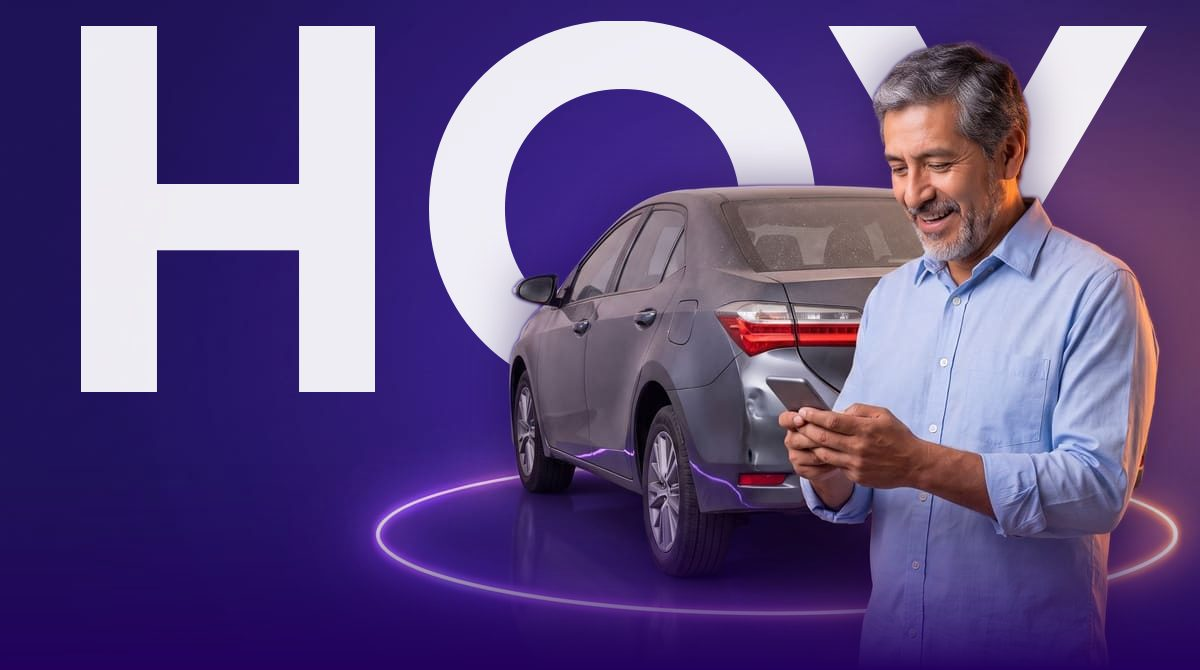
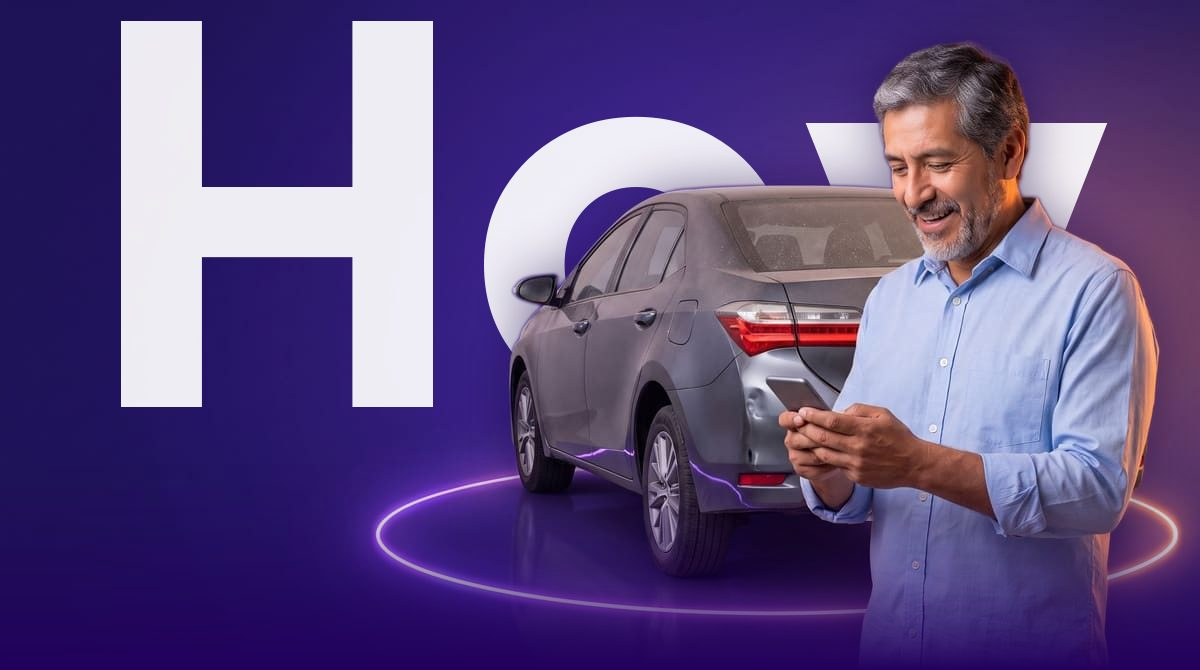
feat(correos): Valoriza — palabras en tipo oración y pantallas reales del celular
Palabra gigante del hero en tipo oración (¿Cuánto?, Revende…). Sugerencia de
Julio: el cuerpo muestra el flujo de valorización en el celular con capturas
reales (formulario, resultado, Mi Garaje, propuestas, responder) junto a la
lista; en el correo 4, tira de 3 celulares paso a paso.

Changed region(s): [[0.0617, 0.0299, 0.74, 0.6269], [0.8325, 0.0299, 0.9558, 0.3582], [0.6783, 0.0299, 0.7708, 0.1493]]

diff --git a/src/emails/boletines/campanaValoriza.ts b/src/emails/boletines/campanaValoriza.ts
@@ -93,16 +93,32 @@ const p = (html: string, o: { size?: number; color?: string; align?: string } = 
 const b = (t: string) => `<b style="color:${DS.v700};">${t}</b>`;
 const HOLA = p('Hola {{Nombre usuario.Ejem: Gabriel Bruno}},');
 
-/** Título de sección: antetítulo naranja + título violeta (jerarquía del Index). */
-const title = (kicker: string, text: string) => row(`<p style="margin:0;font-family:${F};font-size:12px;line-height:16px;font-weight:800;letter-spacing:0.1em;text-transform:uppercase;color:${DS.orange};">${kicker}</p><h2 style="margin:6px 0 0;font-family:${F};font-size:22px;line-height:28px;font-weight:800;letter-spacing:-0.02em;color:${DS.v700};">${text}</h2>`, '0 28px');
-
-/** Filas con ícono de vidrio (estilo «Empresas y vendedores»). `steps` antepone «Paso n». */
-function rows(items: [Icono, string, string][], steps = false): string {
-  const r = items.map(([ic, t, d], i) => `<tr><td class="ds-in" style="padding:16px 20px;${i ? `border-top:1px solid ${DS.divider};` : ''}animation-delay:${0.1 + i * 0.12}s;">${T()}<tr>
-<td width="60" valign="middle"><div class="ds-pop" style="display:inline-block;padding:8px;border-radius:16px;background-color:${DS.lav};animation-delay:${0.25 + i * 0.12}s;">${icon(ic)}</div></td>
-<td valign="middle" style="padding-left:16px;font-family:${F};">${steps ? `<div style="font-size:11px;line-height:14px;font-weight:800;letter-spacing:0.1em;text-transform:uppercase;color:${DS.orange};">Paso ${i + 1}</div>` : ''}<div style="margin-top:${steps ? 3 : 0}px;font-size:16px;line-height:22px;font-weight:800;letter-spacing:-0.01em;color:${DS.v700};">${t}</div><div style="margin-top:3px;font-size:14px;line-height:20px;color:${DS.muted};">${d}</div></td>
+/**
+ * Celular con una pantalla REAL de VMC (capturas del flujo, cel/*.png) junto a la lista:
+ * el producto se ve, no se describe. En móvil el celular queda arriba, centrado.
+ */
+function cel(img: string, alt: string, kicker: string, head: string, items: [Icono, string, string][]): string {
+  const li = items.map(([ic, t, d], i) => `<tr><td class="ds-in" style="padding:${i ? 14 : 0}px 0 0;animation-delay:${0.2 + i * 0.12}s;">${T()}<tr>
+<td width="44" valign="top"><div style="display:inline-block;padding:4px;border-radius:12px;background-color:${DS.lav};">${icon(ic, 32)}</div></td>
+<td valign="top" style="padding-left:12px;font-family:${F};"><div style="font-size:15px;line-height:20px;font-weight:800;color:${DS.v700};">${t}</div><div style="margin-top:2px;font-size:14px;line-height:20px;color:${DS.muted};">${d}</div></td>
 </tr></table></td></tr>`).join('');
-  return row(`${T(`bgcolor="#ffffff" style="border-radius:20px;border:1px solid ${DS.divider};box-shadow:${DS_SHADOW};"`)}${r}</table>`, '0 16px');
+  return row(`${T(`bgcolor="${DS.lav}" style="border-radius:24px;background-image:linear-gradient(135deg,#f5f0ff 0%,#ffffff 70%);border:1px solid ${DS.divider};"`)}<tr>
+<td class="ds-stack ds-cel" width="46%" align="center" valign="middle" style="padding:20px 0 12px 12px;"><img class="ds-zoom" src="${IMG}/cel/${img}" alt="${alt}" width="230" border="0" style="display:block;width:230px;max-width:100%;height:auto;margin:0 auto;"></td>
+<td class="ds-stack ds-cel-copy" width="54%" valign="middle" style="padding:24px 24px 24px 8px;font-family:${F};">
+<p style="margin:0;font-size:12px;line-height:16px;font-weight:800;letter-spacing:0.1em;text-transform:uppercase;color:${DS.orange};">${kicker}</p>
+<h2 style="margin:6px 0 18px;font-family:${F};font-size:22px;line-height:28px;font-weight:800;letter-spacing:-0.02em;color:${DS.v700};">${head}</h2>
+${T()}${li}</table>
+</td></tr></table>`, '0 16px');
+}
+
+/** Tira de 3 celulares: el recorrido completo en pantallas reales, paso a paso. */
+function cels(items: [string, string, string, string][]): string {
+  const c = items.map(([img, alt, t, d], i) => `<td class="ds-in" width="33%" align="center" valign="top" style="padding:0 4px;font-family:${F};animation-delay:${0.1 + i * 0.15}s;">
+<img src="${IMG}/cel/${img}" alt="${alt}" width="176" border="0" style="display:block;width:100%;max-width:176px;height:auto;margin:0 auto;">
+<div style="margin-top:6px;font-size:11px;line-height:14px;font-weight:800;letter-spacing:0.1em;text-transform:uppercase;color:${DS.orange};">Paso ${i + 1}</div>
+<div style="margin-top:3px;font-size:16px;line-height:21px;font-weight:800;color:${DS.v700};">${t}</div>
+<div style="margin-top:3px;font-size:13px;line-height:18px;color:${DS.muted};">${d}</div></td>`).join('');
+  return row(`${T()}<tr>${c}</tr></table>`, '0 12px');
 }
 
 /** Nota referencial: ícono de fecha + texto, en lavanda. */
@@ -147,6 +163,8 @@ const RESPONSIVE = `<style>
 table[width="600"],td[width="600"]{width:100%!important;box-sizing:border-box}
 .ds-hero-copy{padding:4px 22px 28px!important}
 .ds-stack{display:block!important;width:100%!important;box-sizing:border-box}
+.ds-cel{padding:24px 0 0!important}
+.ds-cel-copy{padding:16px 24px 26px!important}
 td.ds-stack[width="4%"]{height:14px!important}
 .ds-h1{font-size:30px!important;line-height:34px!important}
 }
@@ -180,8 +198,7 @@ const DEFS: Def[] = [
     body: [
       HOLA, gap(8),
       p(`El vendedor publica un precio, pero tú puedes enviarle tu propuesta. Con una valorización, ${b('sabes cuánto proponer')}.`),
-      gap(28), title('Antes de proponer', 'Tres ventajas de valorizar'), gap(14),
-      rows([['precio', 'Sabes cuánto proponer', 'Tu propuesta parte de un valor de referencia.'], ['compras', 'Detectas oportunidades', 'Ves si el precio está por debajo de su valor.'], ['negociaciones', 'Negocias con argumentos', 'Si llega una contrapropuesta, sabes si te conviene.']]),
+      gap(28), cel('resultado.png', 'Pantalla de resultado de una valorización en VMC', 'Antes de proponer', 'Tu valorización, en tu celular', [['precio', 'Sabes cuánto proponer', 'Tu propuesta parte de un valor de referencia.'], ['compras', 'Detectas oportunidades', 'Ves si el precio está por debajo de su valor.'], ['negociaciones', 'Negocias con argumentos', 'Si llega una contrapropuesta, sabes si te conviene.']]),
       gap(24), note(REF),
       gap(32), closing('valorizaciones', 'Antes de proponer, valoriza', 'Gratis, en minutos y desde tu celular.', 'Valorizar un auto', VALORIZA_URL),
       gap(24), ps('Valorizar en VMC es gratis, siempre.'),
@@ -197,8 +214,7 @@ const DEFS: Def[] = [
     body: [
       HOLA, gap(8),
       p(`El precio correcto no se adivina. ${b('Una valorización te da un punto de partida')} para poner tu auto a la venta.`),
-      gap(28), title('Antes de publicar', 'Tres ventajas de valorizar'), gap(14),
-      rows([['valorizaciones', 'Un precio con sustento', 'Según el estado y el recorrido de tu auto.'], ['precio', 'Ni regalado ni estancado', 'Ni tan bajo que pierdas, ni tan alto que no se venda.'], ['vender', 'Negocias con confianza', 'Sabes si aceptar, rechazar o contraproponer.']]),
+      gap(28), cel('resultado.png', 'Pantalla de resultado de una valorización en VMC, con el botón Publicar', 'Antes de publicar', 'Sabes cuánto vale. Luego, publicas', [['valorizaciones', 'Un precio con sustento', 'Según el estado y el recorrido de tu auto.'], ['precio', 'Ni regalado ni estancado', 'Ni tan bajo que pierdas, ni tan alto que no se venda.'], ['vender', 'Negocias con confianza', 'Sabes si aceptar, rechazar o contraproponer.']]),
       gap(24), note(REF),
       gap(32), closing('vender', 'Pide con sustento', 'Conoce el valor de referencia de tu auto antes de publicarlo.', 'Valorizar mi auto', VALORIZA_URL),
       gap(24), ps('Valorizar es gratis y no te obliga a vender.'),
@@ -219,8 +235,7 @@ const DEFS: Def[] = [
         { tag: 'Auto A', chips: ['45,000 km', 'Mantenimiento al día', 'Sin choques'], value: 'Más alto', pct: 86, high: true },
         { tag: 'Auto B', chips: ['140,000 km', 'Sin historial', 'Golpes por reparar'], value: 'Más bajo', pct: 46, high: false },
       ]),
-      gap(28), title('La diferencia', 'Lo que más mueve el valor'), gap(14),
-      rows([['km', 'El recorrido', 'Cuántos kilómetros tiene.'], ['verificado', 'El estado', 'Carrocería, pintura y mecánica.'], ['fecha', 'El mantenimiento', 'Si está al día y documentado.']]),
+      gap(28), cel('formulario.png', 'Formulario de valorización de VMC con año y kilómetros', 'La diferencia', 'Lo que más mueve el valor', [['km', 'El recorrido', 'Cuántos kilómetros tiene.'], ['verificado', 'El estado', 'Carrocería, pintura y mecánica.'], ['fecha', 'El mantenimiento', 'Si está al día y documentado.']]),
       gap(32), closing('km', '¿Cuánto vale el tuyo?', 'Tu estado y tu recorrido, no una tabla genérica.', 'Valorizar mi auto', VALORIZA_URL),
       gap(24), ps('Por eso una tabla genérica no te dice cuánto vale el tuyo. Una valorización, sí. Y es gratis.'),
     ],
@@ -236,7 +251,7 @@ const DEFS: Def[] = [
       HOLA, gap(8),
       p(`Todo en un mismo lugar, ${b('desde Mi Garaje')}:`),
       gap(18),
-      rows([['valorizaciones', 'Valoriza', 'Gratis y en minutos, desde tu celular.'], ['docs', 'Guarda', 'Tu valorización queda en Mi Garaje.'], ['publicar', 'Publica', 'Como oferta negociable, cuando decidas vender.']], true),
+      cels([['formulario.png', 'Formulario de valorización', 'Valoriza', 'Gratis, desde tu celular.'], ['resultado.png', 'Resultado de la valorización con Guardar y Publicar', 'Guarda', 'Queda en Mi Garaje.'], ['propuestas.png', 'Propuestas recibidas en Mi Garaje', 'Publica', 'Y recibe propuestas.']]),
       gap(24), note(REF),
       gap(32), closing('docs', 'Empieza por valorizar', 'Queda guardada en Mi Garaje para cuando decidas publicar.', 'Valorizar mi auto', VALORIZA_URL),
       gap(16), link('¿Ya valorizaste? Publica tu auto aquí', PUBLICAR_URL),
@@ -252,8 +267,7 @@ const DEFS: Def[] = [
     body: [
       HOLA, gap(8),
       p(`Ya conoces VMC como comprador. Ahora es también ${b('tu canal para vender')}: compra, valoriza y vuelve a vender en un mismo lugar.`),
-      gap(28), title('Tu nuevo ciclo', 'Compra, valoriza y vende'), gap(14),
-      rows([['compras', 'Compra', 'Encuentra la oportunidad en VMC.'], ['valorizaciones', 'Valoriza', 'Conoce su valor de referencia, gratis.'], ['crecimiento', 'Vende', 'Publícalo como oferta negociable.']], true),
+      gap(28), cel('mi-garaje.png', 'Mi Garaje en VMC con Publica tu vehículo y Valoriza tu vehículo', 'Tu nuevo ciclo', 'Compra, valoriza y vende', [['compras', 'Compra', 'Encuentra la oportunidad en VMC.'], ['valorizaciones', 'Valoriza', 'Conoce su valor de referencia, gratis.'], ['crecimiento', 'Vende', 'Publícalo como oferta negociable.']]),
       gap(32), closing('crecimiento', 'Tu auto, frente a compradores de VMC', 'Publica y deja que las propuestas lleguen a ti.', 'Publicar mi auto', PUBLICAR_URL),
       gap(24), ps('Antes de publicar, valoriza: un precio con sustento vende mejor.'),
     ],
@@ -269,7 +283,7 @@ const DEFS: Def[] = [
       HOLA, gap(8),
       p(`Sin anuncios en mil sitios ni llamadas a cualquier hora: ${b('todo pasa en Mi Garaje')}. Así funciona:`),
       gap(18),
-      rows([['precio', 'Recibe propuestas', 'Los compradores te dicen cuánto pagarían.'], ['verificado', 'Tú decides', 'Acepta, rechaza o haz una contrapropuesta.'], ['negociaciones', 'Responde preguntas', 'Los compradores te pueden escribir antes de proponer.']]),
+      cel('responder.png', 'Pantalla de una propuesta con Aceptar y Contraproponer', 'Así funciona', 'Las propuestas llegan a Mi Garaje', [['precio', 'Recibe propuestas', 'Los compradores te dicen cuánto pagarían.'], ['verificado', 'Tú decides', 'Acepta, rechaza o haz una contrapropuesta.'], ['negociaciones', 'Responde preguntas', 'Los compradores te pueden escribir antes de proponer.']]),
       gap(32), closing('publicar', 'Publica tu auto en VMC', 'Y recibe propuestas en Mi Garaje.', 'Publicar mi auto', PUBLICAR_URL),
       gap(16), link('¿No sabes a cuánto publicarlo? Valorízalo gratis', VALORIZA_URL),
     ],
@@ -284,8 +298,7 @@ const DEFS: Def[] = [
     body: [
       HOLA, gap(8),
       p(`Publicar con un precio al azar es la forma más rápida de perder tiempo o perder plata. ${b('Valorizar primero')} te da un punto de partida.`),
-      gap(28), title('De tu garaje a la venta', 'Así vendes en VMC'), gap(14),
-      rows([['valorizaciones', 'Valoriza', 'Conoce el valor de referencia de tu auto, gratis.'], ['publicar', 'Publica', 'Como oferta negociable, con tu precio.'], ['negociaciones', 'Recibe propuestas', 'Acepta, rechaza o haz una contrapropuesta.']], true),
+      gap(28), cel('formulario.png', 'Formulario de valorización de VMC', 'De tu garaje a la venta', 'Así vendes en VMC', [['valorizaciones', 'Valoriza', 'Conoce el valor de referencia de tu auto, gratis.'], ['publicar', 'Publica', 'Como oferta negociable, con tu precio.'], ['negociaciones', 'Recibe propuestas', 'Acepta, rechaza o haz una contrapropuesta.']]),
       gap(24), note(REF),
       gap(32), closing('precio', '¿A cuánto publicarías tu auto?', 'Descúbrelo antes de ponerlo a la venta.', 'Valorizar mi auto', VALORIZA_URL),
       gap(16), link('¿Ya sabes tu precio? Publica tu auto aquí', PUBLICAR_URL),
